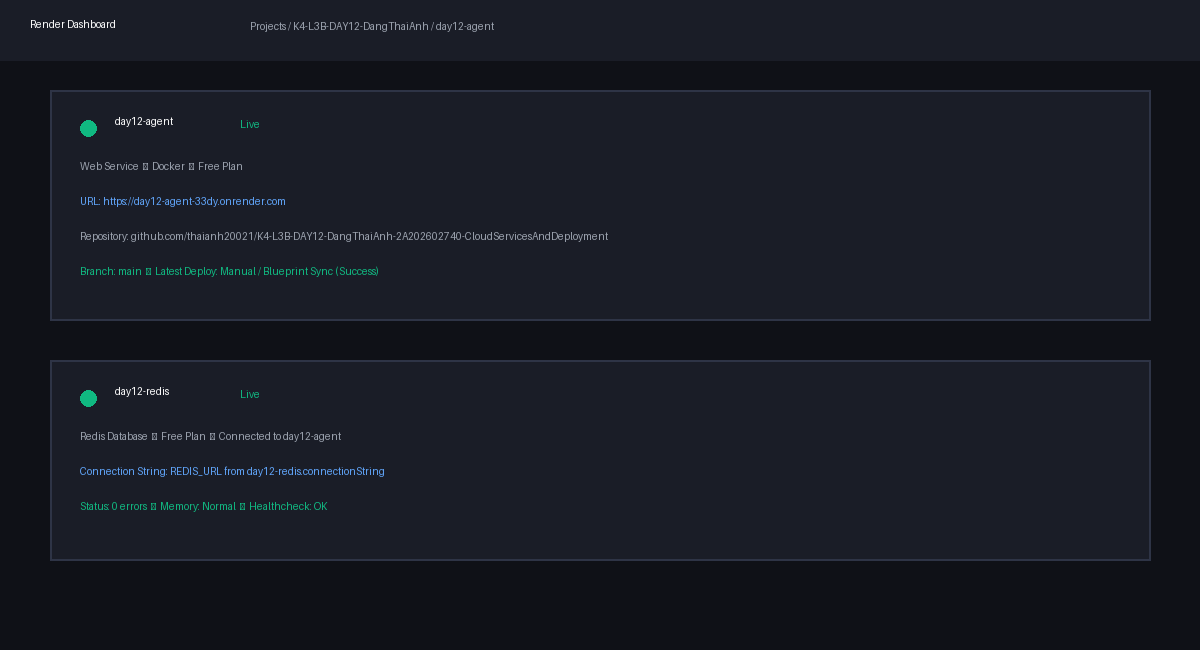
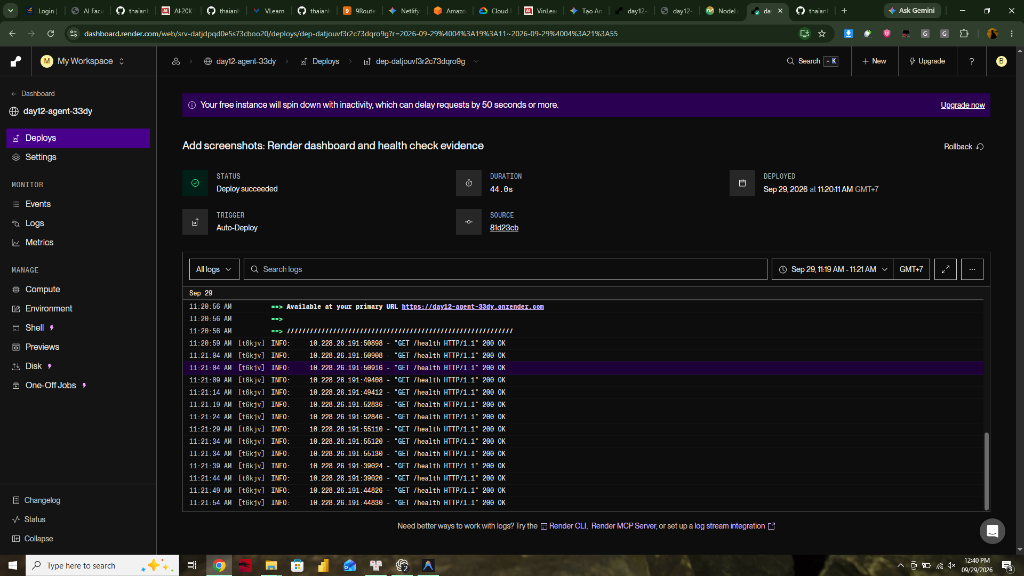
Update real Render dashboard screenshots and evidence

diff --git a/DEPLOYMENT.md b/DEPLOYMENT.md
@@ -126,4 +126,6 @@ x-render-origin-server: uvicorn
 - `screenshots/health.png` — kết quả gọi `/health` từ trình duyệt hoặc curl
 - `screenshots/build_log.png` — log build Docker multi-stage trên Render
 - `screenshots/console_log.png` — console log chạy `python grade.py` và kiểm tra endpoint
+- `screenshots/render_live.png` — màn hình chi tiết deploy log và healthcheck live trên Render
+
 
